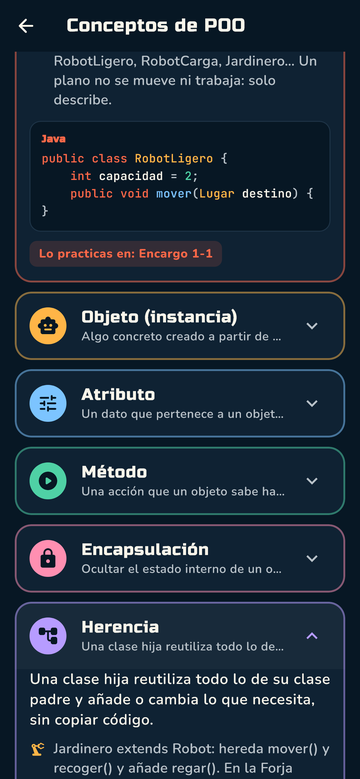
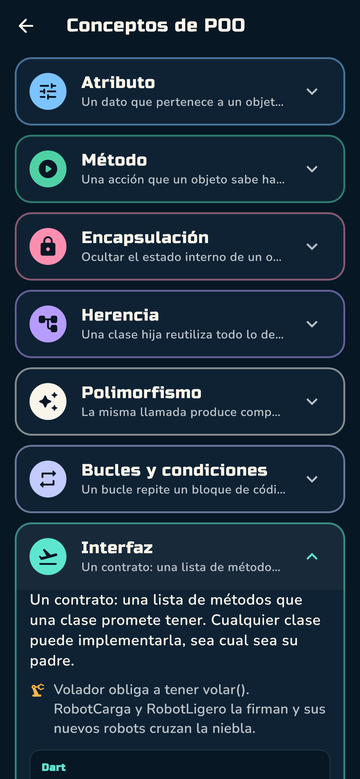
BotForger 0.3.0: La Ciudad Alta, reto diario y nuevos idiomas

Changed region(s): [[0.0306, 0.0616, 0.9778, 1.0], [0.9472, 0.5854, 0.9778, 0.647]]

diff --git a/README.md b/README.md
@@ -19,7 +19,8 @@
   <img alt="Android 7+" src="https://img.shields.io/badge/Android-7.0%2B-4FD1A5?style=flat-square">
   <img alt="Gratis" src="https://img.shields.io/badge/precio-gratis-FFB547?style=flat-square">
   <img alt="Sin anuncios" src="https://img.shields.io/badge/sin-anuncios-7CC4FF?style=flat-square">
-  <img alt="Idiomas" src="https://img.shields.io/badge/idiomas-español%20·%20english-B79CFF?style=flat-square">
+  <img alt="Idiomas" src="https://img.shields.io/badge/idiomas-ES%20·%20EN%20·%20PT%20·%20FR-B79CFF?style=flat-square">
+  <img alt="Versión" src="https://img.shields.io/badge/versión-0.3.0-5EE6D0?style=flat-square">
 </p>
 
 ---
@@ -64,6 +65,10 @@ Solo queda **FORGI**, el pequeño engranaje que Vega dejó encendido. Contigo co
 | 🔒 | **Encapsulación** | La batería es privada: Ø no puede tocarla |
 | 🌳 | **Herencia** | El Jardinero hereda de Robot y aprende a regar. ¡Y puedes crear tus propias subclases! |
 | ✨ | **Polimorfismo** | Una sola orden, `trabajar()`, y cada robot responde a su manera |
+| 🔁 | **Bucles y condiciones** | `repetir(4) { … }` y `si (puedeRecoger())`: programas cortos que piensan |
+| 🛩 | **Interfaces** | `implements Volador`: un contrato que cualquier clase puede firmar para cruzar la niebla |
+| 🧩 | **Composición** | Módulos que se acoplan a un robot: Grúa, Regadera, Llave… el robot *tiene* una pieza |
+| 🏗 | **Constructores y sobrecarga** | `RobotLigero(capacidad, inicio)`: decides dónde nace cada objeto |
 
 <p align="center">
   <img src="assets/inheritance.png" width="200" alt="Árbol de herencia">
@@ -72,9 +77,31 @@ Solo queda **FORGI**, el pequeño engranaje que Vega dejó encendido. Contigo co
   <img src="assets/concepts.png" width="200" alt="Conceptos de POO">
 </p>
 
+## Novedades de la versión 0.3
+
+<p align="center">
+  <img src="assets/loops.png" width="200" alt="Bucles">
+  <img src="assets/interface.png" width="200" alt="Interfaz Volador">
+  <img src="assets/modules.png" width="200" alt="Módulos">
+  <img src="assets/constructor.png" width="200" alt="Constructores">
+</p>
+
+🌆 **Mundo 6 · La Ciudad Alta**: seis encargos nuevos con bucles, condiciones, interfaces, composición y constructores, y el desenlace de la historia.<br>
+📅 **Reto diario**: un encargo nuevo cada día, con racha de días seguidos y un recordatorio en el móvil si aún no lo has hecho.<br>
+🌍 **Portugués y francés**, además de español e inglés.<br>
+🎬 **Créditos finales** y transiciones nuevas entre pantallas.
+
+<p align="center">
+  <img src="assets/home.png" width="200" alt="Inicio con el reto diario">
+  <img src="assets/daily.png" width="200" alt="Reto diario">
+  <img src="assets/conditions.png" width="200" alt="Condiciones">
+  <img src="assets/concepts.png" width="200" alt="Conceptos">
+</p>
+
 ## Qué incluye
 
-🗺 **5 mundos y 27 encargos**, de lo más básico a equipos de robots que trabajan a la vez.<br>
+🗺 **6 mundos y 33 encargos**, de lo más básico a equipos de robots que trabajan a la vez.<br>
+📅 **Reto diario** con racha y recordatorio.<br>
 🔥 **Desvíos opcionales**: niveles más difíciles que esconden fragmentos de la historia.<br>
 💻 **Tu lenguaje favorito**: ve tu código en **Dart, Python, Java, JavaScript o C#**.<br>
 📖 **Una historia oscura** contada en escenas, que puedes releer en el **Archivo de Vega**.<br>
@@ -98,10 +125,10 @@ Ve a **[Releases](https://github.com/AndyCG03/BotForger-Game/releases/latest)** 
 
 | Archivo | Para quién | Tamaño |
 | --- | --- | --- |
-| **`BotForger-v0.2.0.apk`** | **Si no sabes cuál elegir.** Funciona en cualquier móvil Android | ~54 MB |
-| `BotForger-v0.2.0-arm64-v8a.apk` | Móviles modernos (la mayoría desde 2017) | ~21 MB |
-| `BotForger-v0.2.0-armeabi-v7a.apk` | Móviles antiguos o de gama baja | ~19 MB |
-| `BotForger-v0.2.0-x86_64.apk` | Emuladores y algunos equipos con procesador Intel | ~23 MB |
+| **`BotForger-v0.3.0.apk`** | **Si no sabes cuál elegir.** Funciona en cualquier móvil Android | ~56 MB |
+| `BotForger-v0.3.0-arm64-v8a.apk` | Móviles modernos (la mayoría desde 2017) | ~22 MB |
+| `BotForger-v0.3.0-armeabi-v7a.apk` | Móviles antiguos o de gama baja | ~20 MB |
+| `BotForger-v0.3.0-x86_64.apk` | Emuladores y algunos equipos con procesador Intel | ~24 MB |
 
 **Cómo instalarlo:**
 
@@ -110,12 +137,14 @@ Ve a **[Releases](https://github.com/AndyCG03/BotForger-Game/releases/latest)** 
 3. Pulsa **Instalar** y ¡a forjar!
 
 > [!NOTE]
-> Requiere **Android 7.0 o superior**. Es una versión de prueba firmada fuera de Google Play: cuando llegue a la tienda, puede que haya que desinstalar esta versión antes de instalar la oficial (el progreso se guarda en el móvil).
+> Requiere **Android 7.0 o superior**. Si ya tienes la 0.2, instala la 0.3 encima: conservas tu progreso. La primera vez te pedirá permiso para enviarte el recordatorio del reto diario (puedes desactivarlo cuando quieras).
+>
+>  Es una versión de prueba firmada fuera de Google Play: cuando llegue a la tienda, puede que haya que desinstalar esta versión antes de instalar la oficial (el progreso se guarda en el móvil).
 
 ## Próximamente
 
-- 📅 Reto diario y logros
-- 🧩 Mundo 6: interfaces y composición
+- 🏆 Logros
+- 🛠 Editor de niveles para retar a tus amigos
 - ☁ Guardado en la nube
 - 🛒 Google Play
 
